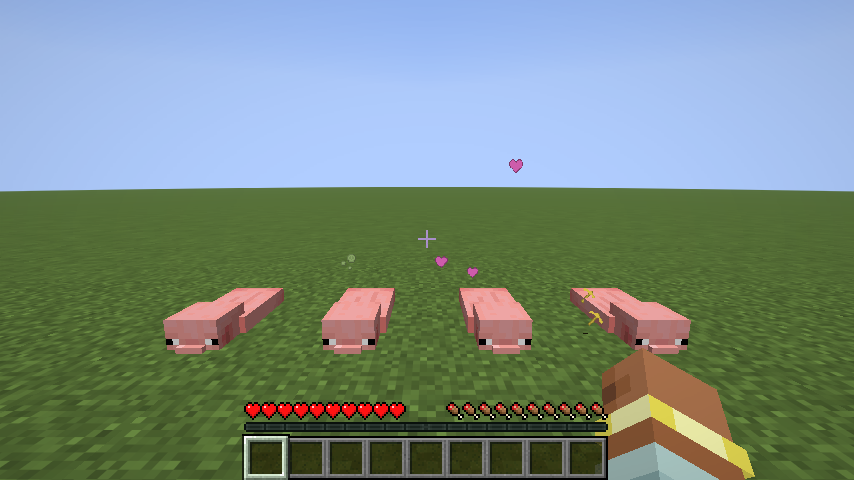
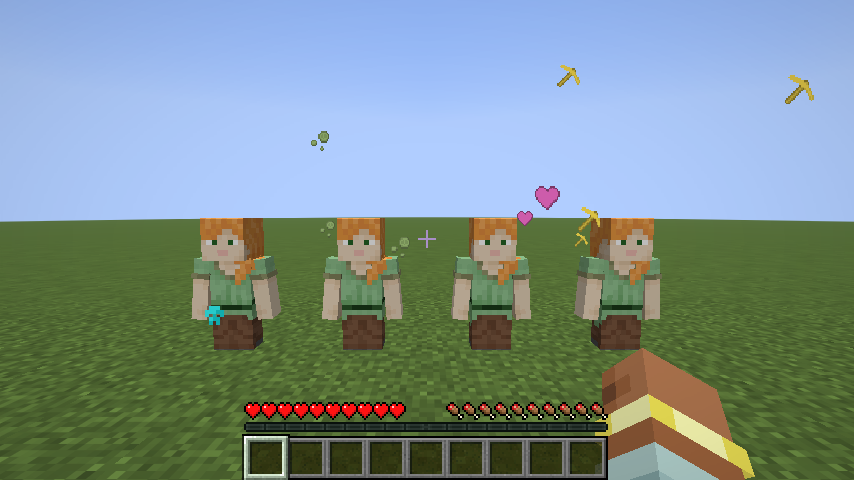
Use mannequins in the client game test
Claude-Session: https://claude.ai/code/session_01DmfJ6GWNpEMpXSEm8h2UnA

diff --git a/src/gametest/java/com/qmftm/quantumparticleeffect/test/EffectParticleClientGameTest.java b/src/gametest/java/com/qmftm/quantumparticleeffect/test/EffectParticleClientGameTest.java
@@ -5,9 +5,9 @@ import net.fabricmc.fabric.api.client.gametest.v1.context.ClientGameTestContext;
 import net.fabricmc.fabric.api.client.gametest.v1.context.TestSingleplayerContext;
 
 /**
- * Puts four mobs in front of the player and saves a screenshot. From left to right:
+ * Puts four mannequins in a row in front of the player and saves a screenshot. From left to right:
  * trial omen (vanilla, for comparison), poison, regeneration and haste.
- * The last three should show small silhouettes of their icons in the effect color.
+ * The last three should show silhouettes of their icons in the effect color.
  */
 public class EffectParticleClientGameTest implements FabricClientGameTest {
 	@Override
@@ -16,7 +16,7 @@ public class EffectParticleClientGameTest implements FabricClientGameTest {
 			context.waitTicks(100);
 			world.getServer().runCommand("time set noon");
 			world.getServer().runCommand("gamerule advance_time false");
-			world.getServer().runCommand("execute as @a run tp @s ~ ~ ~ 0 10");
+			world.getServer().runCommand("execute as @a run tp @s ~ ~ ~ 0 5");
 			context.waitTicks(10);
 			summon(world, "2.25", "minecraft:trial_omen");
 			summon(world, "0.75", "minecraft:poison");
@@ -28,7 +28,7 @@ public class EffectParticleClientGameTest implements FabricClientGameTest {
 	}
 
 	private static void summon(TestSingleplayerContext world, String left, String effect) {
-		world.getServer().runCommand("execute as @a at @s run summon pig ^" + left + " ^ ^4 "
-			+ "{NoAI:1b,Silent:1b,Invulnerable:1b,Rotation:[180f,0f],active_effects:[{id:\"" + effect + "\",duration:6000,amplifier:4}]}");
+		world.getServer().runCommand("execute as @a at @s run summon mannequin ^" + left + " ^ ^4 "
+			+ "{immovable:1b,hide_description:1b,Invulnerable:1b,Rotation:[180f,0f],active_effects:[{id:\"" + effect + "\",duration:6000,amplifier:4}]}");
 	}
 }
